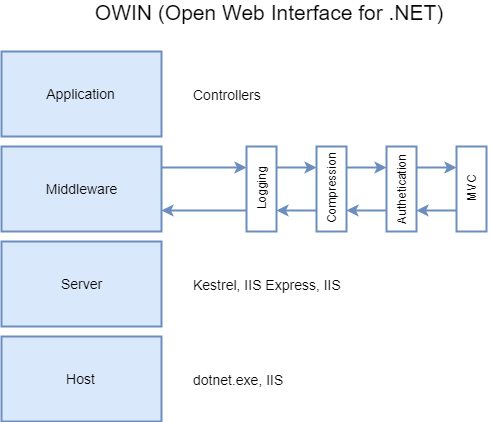
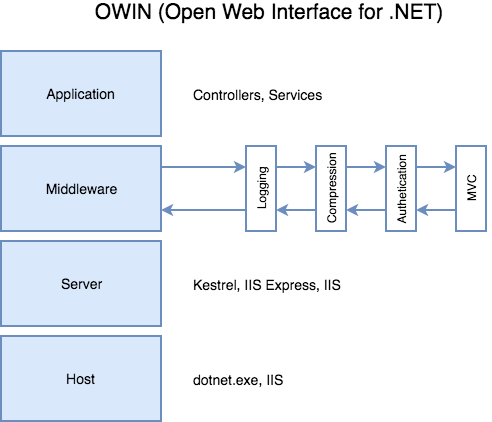
Server Side slides

diff --git a/DataCenterWebApp/ClientApp/src/app/about/slide-server-side/slide-server-side.component.html b/DataCenterWebApp/ClientApp/src/app/about/slide-server-side/slide-server-side.component.html
@@ -1,13 +1,43 @@
 <div class="container-fluid">
-
-  <h3>Server side (ASP.NET Core MVC SPA)</h3>
-
-  <h4>Styling</h4>
-  <h4>Responsive UI</h4>
-  <h4>Drag And Drop</h4>
-  <h4>Dashboard Page</h4>
-  <h4>Security</h4>
-  <h4>Search</h4>
-  <h4>SVG</h4>
+  <div *ngIf="this.slideNumber == 1">
+    <div class="row">
+      <div class="col-lg-6">
+        <img class="img-responsive prettyimage" (click)="showSlide(2)" src="../../../assets/Images/owin.png">
+      </div>
+      <div class="col-lg-6">
+        <h3>Server conforms to OWIN Standard</h3>
+        <h4>Application is hosted by dotnet.exe oo IIS</h4>
+        <h4>Kestrel is the web server created for ASP.NET Core</h4>
+        <h4>Middleware is configured for MVC SPA with Authentication</h4>
+        <h4>Application consists of controllers and services</h4>
+      </div>
+    </div>
+  </div>
+  <div *ngIf="this.slideNumber == 2">
+    <div class="row">
+      <div class="col-lg-6">
+        <img class="img-responsive prettyimage" (click)="showSlide(1)" src="../../../assets/Images/server side overview.png">
+      </div>
+      <div class="col-lg-6">
+        <h3>ASP.NET Core Server </h3>
+        <h4>Working Solution provided by template</h4>
+        <h4>Program.cs</h4>
+        <h5>Configures logging</h5>
+        <h5>Creates the Web host based on Startup.cs</h5>
+        <h4>Startup.cs</h4>
+        <h5>Configure() - Configures the request pipeline middleware</h5>
+        <h5>ConfigureServices() - Configures the services available to the controllers</h5>
+        <h4>Controllers</h4>
+        <h5>Every request is handled by constructing a controller</h5>
+        <h4>Custom Services</h4>
+         <h5>Scoped, Transient, Singleton</h5>
+         <h5>Injected into Controllers on construction</h5>
+        <h4>IDataCenterLib Implementations</h4>
+          <h5>DataCenterLive - talks to iC Data Center</h5>
+          <h5>DataCenterSimulated - simulates iC Data Center</h5>
+        
+      </div>
+    </div>
+  </div>
 
 </div>

diff --git a/DataCenterWebApp/ClientApp/src/app/about/slide-server-side/slide-server-side.component.ts b/DataCenterWebApp/ClientApp/src/app/about/slide-server-side/slide-server-side.component.ts
@@ -7,5 +7,13 @@ import { Component } from "@angular/core";
 })
 
 export class SlideServerSideComponent {
+  slideNumber: number = 1;
+
+  constructor() {
+  }
+
+  showSlide(index: number) {
+    this.slideNumber = index;
+  }
 
 }
